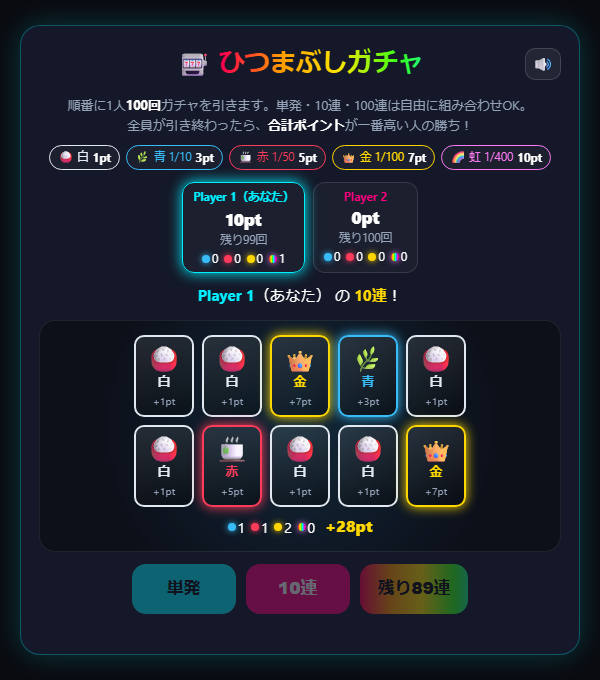
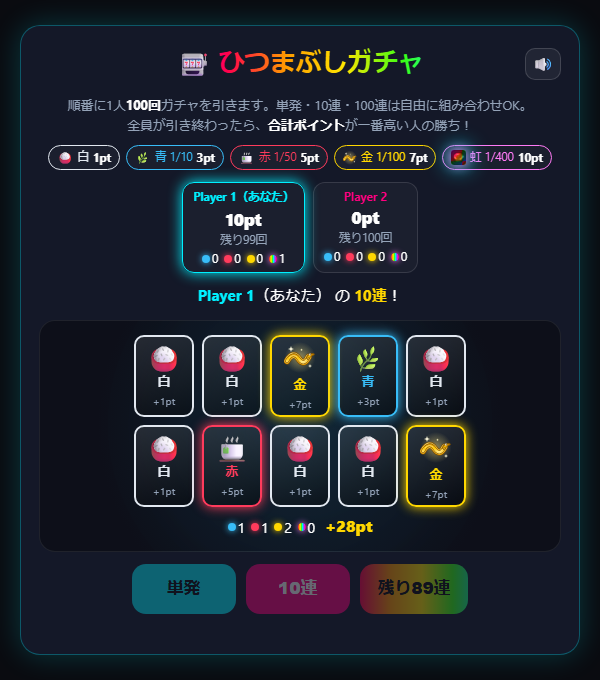
feat(hitsumabushi-gacha): 金のうなぎ・虹の特上ひつまぶしをアイコン画像にする
milightpartner-games#15 の更新を取り込む。

diff --git a/games/hitsumabushi-gacha/index.html b/games/hitsumabushi-gacha/index.html
@@ -249,7 +249,30 @@
       from { transform: rotateY(90deg) scale(0.8); opacity: 0; }
       to { transform: rotateY(0) scale(1); opacity: 1; }
     }
-    .gc .em { line-height: 1; }
+    .gc .em { line-height: 1; display: inline-flex; }
+    .gc .em img, .rate-icon img { display: block; width: 1.25em; height: 1.25em; object-fit: contain; }
+    .rate-icon { display: inline-flex; font-size: 1em; }
+    /* 虹：ひつまぶしのロゴの上に虹色を流して重ねる */
+    .rainbow-icon {
+      position: relative;
+      display: inline-block;
+      border-radius: 22%;
+      overflow: hidden;
+      filter: drop-shadow(0 0 6px #ff7af5) drop-shadow(0 0 10px #00f0ff);
+    }
+    .rainbow-icon img { display: block; }
+    .rainbow-icon::after {
+      content: '';
+      position: absolute;
+      inset: 0;
+      background: linear-gradient(135deg, #ff004c, #ff9a00, #ffe600, #39ff14, #00f0ff, #7a5cff, #ff00d4, #ff004c, #ff9a00, #ffe600);
+      background-size: 200% 200%;
+      mix-blend-mode: color;
+      opacity: 0.8;
+      animation: rainbowShift 2.4s linear infinite;
+    }
+    @keyframes rainbowShift { to { background-position: 200% 200%; } }
+    .gc.big .em img { width: 1.6em; height: 1.6em; }
     .gc .nm { color: var(--c); font-weight: 800; }
     .gc.r4 .nm {
       background: var(--rainbow);
@@ -485,8 +508,8 @@
       { name: '白', item: 'ごはん', emoji: '🍚', pts: 1, odds: 347, color: '#e2e8f0' },
       { name: '青', item: '薬味', emoji: '🌿', pts: 3, odds: 40, color: '#38bdf8' },
       { name: '赤', item: 'お出汁', emoji: '🍵', pts: 5, odds: 8, color: '#ff3b5c' },
-      { name: '金', item: 'うなぎ', emoji: '👑', pts: 7, odds: 4, color: '#ffd700' },
-      { name: '虹', item: '特上ひつまぶし', emoji: '🌈', pts: 10, odds: 1, color: '#ff7af5' },
+      { name: '金', item: 'うなぎ', icon: 'assets/unagi-gold.svg', pts: 7, odds: 4, color: '#ffd700' },
+      { name: '虹', item: '特上ひつまぶし', icon: 'assets/hitsumabushi.png', rainbow: true, pts: 10, odds: 1, color: '#ff7af5' },
     ];
     const ODDS_TOTAL = 400;
     const RATE_LABELS = ['', '1/10', '1/50', '1/100', '1/400'];
@@ -740,7 +763,7 @@
     function renderRates() {
       els.rateList.innerHTML = RARITIES.map((r, i) => {
         const rate = i === 0 ? '' : ` ${RATE_LABELS[i]}`;
-        return `<span class="rate r${i}" style="--c:${r.color}">${r.emoji} ${r.name}${rate} <span class="rate-pt">${r.pts}pt</span></span>`;
+        return `<span class="rate r${i}" style="--c:${r.color}"><span class="rate-icon">${iconHtml(i)}</span> ${r.name}${rate} <span class="rate-pt">${r.pts}pt</span></span>`;
       }).join('');
     }
 
@@ -809,10 +832,18 @@
       }
     }
 
+    // アイテムの絵。金・虹は画像（虹はひつまぶしのロゴに虹色を重ねる）、それ以外は絵文字
+    function iconHtml(r) {
+      const rr = RARITIES[r];
+      if (!rr.icon) return rr.emoji;
+      const img = `<img src="${rr.icon}" alt="${rr.item}" draggable="false">`;
+      return rr.rainbow ? `<span class="rainbow-icon">${img}</span>` : img;
+    }
+
     function cardHtml(r, size) {
       const rr = RARITIES[r];
       const item = size === 'big' ? `<span class="it">${rr.item}</span>` : '';
-      return `<div class="gc ${size} r${r}" style="--c:${rr.color}"><span class="em">${rr.emoji}</span><span class="nm">${rr.name}</span>${item}<span class="pt">+${rr.pts}pt</span></div>`;
+      return `<div class="gc ${size} r${r}" style="--c:${rr.color}"><span class="em">${iconHtml(r)}</span><span class="nm">${rr.name}</span>${item}<span class="pt">+${rr.pts}pt</span></div>`;
     }
 
     function summaryHtml(items) {

diff --git a/games/hitsumabushi-gacha/guide.md b/games/hitsumabushi-gacha/guide.md
@@ -29,8 +29,8 @@ quickRules: |
 | 白 | 🍚 ごはん | 1pt | 残り（約87%） |
 | 青 | 🌿 薬味 | 3pt | 1/10 |
 | 赤 | 🍵 お出汁 | 5pt | 1/50 |
-| 金 | 👑 うなぎ | 7pt | 1/100 |
-| 虹 | 🌈 特上ひつまぶし | 10pt | 1/400 |
+| 金 | うなぎ | 7pt | 1/100 |
+| 虹 | 特上ひつまぶし | 10pt | 1/400 |
 
 ## 2. ゲームの流れ
 
